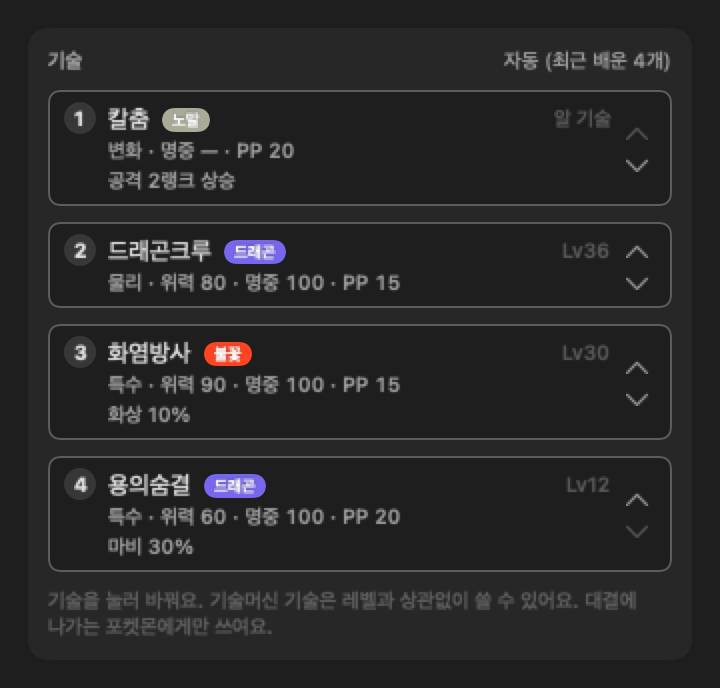
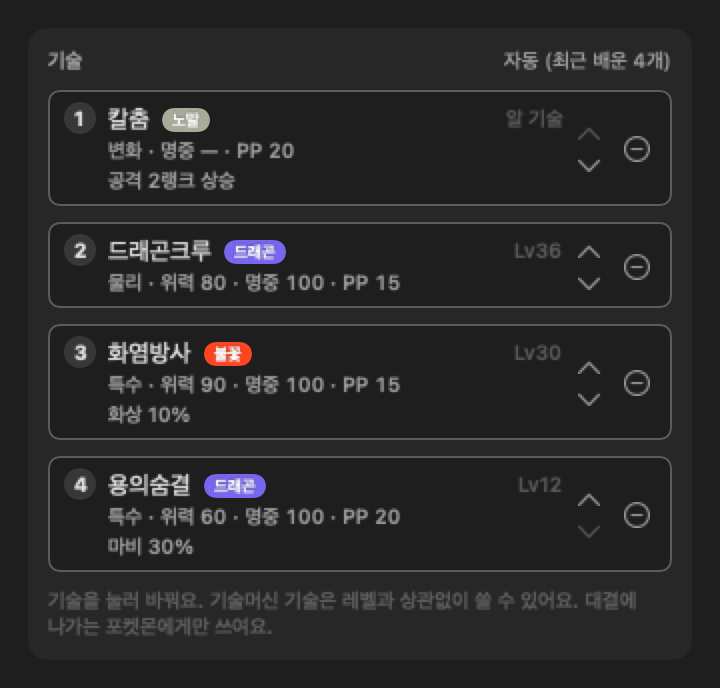
test(app): draw Move training after a forget for the README

diff --git a/Tests/PokeTokenBarTests/ReadmeScreenshotTests.swift b/Tests/PokeTokenBarTests/ReadmeScreenshotTests.swift
@@ -159,6 +159,17 @@ final class ReadmeScreenshotTests: XCTestCase {
             entry.chooseMove(move, at: index, for: BoxDexFixture.charizardID, pokemonID: 6, current: chosen)
             chosen = entry.chosenMoves(for: BoxDexFixture.charizardID, pokemonID: 6)
         }
+        let forgetSuite = "readme-forget-\(UUID())"
+        let forgetDefaults = try XCTUnwrap(UserDefaults(suiteName: forgetSuite))
+        defer { forgetDefaults.removePersistentDomain(forName: forgetSuite) }
+        let forgetEntry = BattleEntryStore(defaults: forgetDefaults)
+        _ = forgetEntry.add(BoxDexFixture.charizardID)
+        var kept: [Int] = []
+        for (index, move) in [14, 337, 53, 225].enumerated() {
+            forgetEntry.chooseMove(move, at: index, for: BoxDexFixture.charizardID, pokemonID: 6, current: kept)
+            kept = forgetEntry.chosenMoves(for: BoxDexFixture.charizardID, pokemonID: 6)
+        }
+        forgetEntry.forgetMove(at: 3, for: BoxDexFixture.charizardID, pokemonID: 6, current: kept)
         let battleSuite = "readme-battle-\(UUID())"
         let battleDefaults = try XCTUnwrap(UserDefaults(suiteName: battleSuite))
         defer { battleDefaults.removePersistentDomain(forName: battleSuite) }
@@ -209,6 +220,8 @@ final class ReadmeScreenshotTests: XCTestCase {
                            "screenshot-status-moves\(suffix)", in: dir, height: nil)
             try await shot(moveOrder(store: store, uploader: uploader, entry: entry),
                            "screenshot-move-order\(suffix)", in: dir, height: nil)
+            try await shot(moveOrder(store: store, uploader: uploader, entry: forgetEntry),
+                           "screenshot-forget-moves\(suffix)", in: dir, height: nil)
             try await shot(statusMoves(store: store, uploader: eggUploader, entry: entry),
                            "screenshot-egg-moves\(suffix)", in: dir, height: nil)
             try await shot(popover { $0.openBoxDetail(id: StoredFriendScreenshotTests.bulbasaurID) },

diff --git a/scripts/release-asset-gate.py b/scripts/release-asset-gate.py
@@ -49,7 +49,7 @@ SCREENS = (
     ("NaturePicker.swift", ("screenshot-nature-picker",)),
     ("BoxTrainingControls.swift", ("screenshot-nature-picker",)),
     ("MoveTrainingSection.swift", ("screenshot-pokemon-profile", "screenshot-move-order", "screenshot-status-moves",
-                                   "screenshot-egg-moves")),
+                                   "screenshot-egg-moves", "screenshot-forget-moves")),
     ("ExpShareSlot.swift", ("screenshot-exp-share",)),
     ("GymReplayView.swift", ("screenshot-gym-replay",)),
     ("GymResultView.swift", ("screenshot-gym-replay", "screenshot-hidden-boss")),
